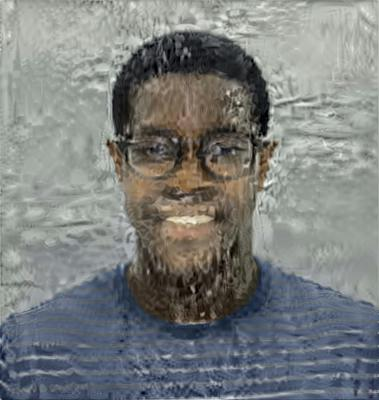
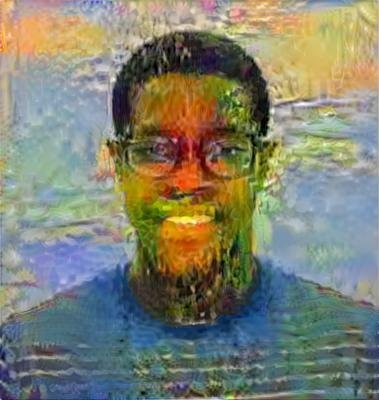
monetface

diff --git a/Network.py b/Network.py
@@ -93,7 +93,7 @@ parser.add_argument("--init_image", dest="init_image", default="content", type=s
 parser.add_argument("--pool_type", dest="pool", default="ave", type=str,
                     help='Pooling type. Can be "ave" for average pooling or "max" for max pooling')
 
-parser.add_argument('--preserve_color', dest='color', default="True", type=str,
+parser.add_argument('--preserve_color', dest='color', default="False", type=str,
                     help='Preserve original color in image')
 
 parser.add_argument('--min_improvement', default=0.0, type=float,
